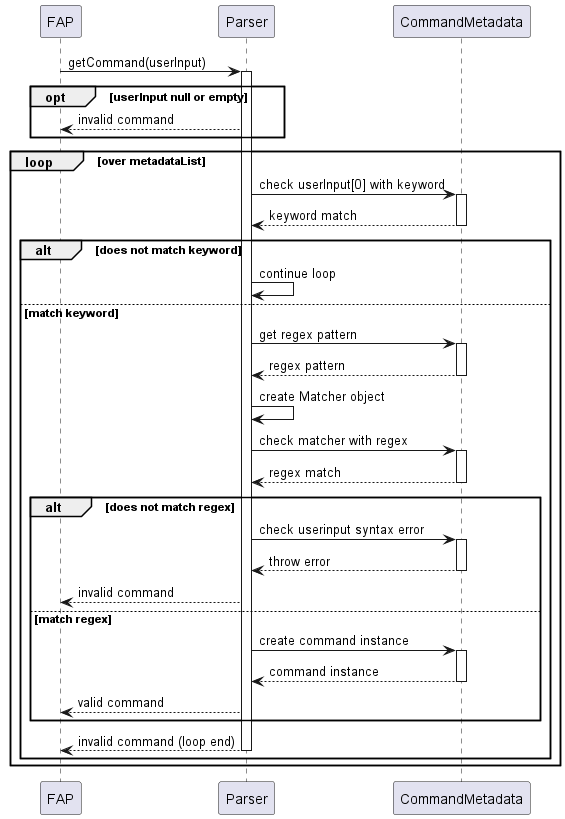
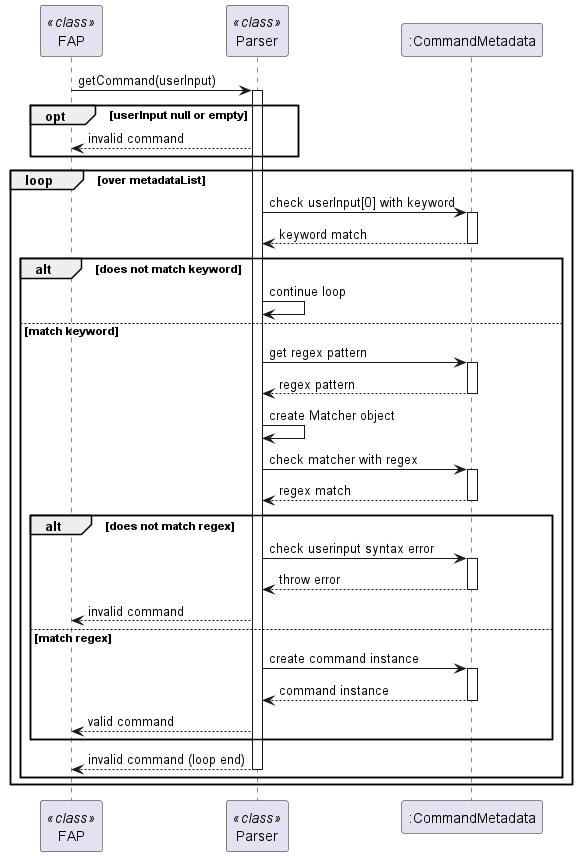
Update parser DG and diagrams

diff --git a/docs/DeveloperGuide.md b/docs/DeveloperGuide.md
@@ -137,13 +137,25 @@ Additionally, the `User` class helps to verify the status of the modules in the 
 modules have been taken or not.
 
 ### Parser package
-**Code**: 
-- [`Parser.java`](https://github.com/AY2324S2-CS2113-W14-3/tp/blob/master/src/main/java/seedu/duke/parser/Parser.java) 
+**Code**:
+- [`Parser.java`](https://github.com/AY2324S2-CS2113-W14-3/tp/blob/master/src/main/java/seedu/duke/parser/Parser.java)
 - [`CommandMetadata.java`](https://github.com/AY2324S2-CS2113-W14-3/tp/blob/master/src/main/java/seedu/duke/parser/CommandMetadata.java)
 
 The `Parser` class, together with the `CommandMetadata` class parses user input to
 **return appropriate command objects** for the corresponding `Command` classes. If input validation fails or no
 matching command is found, it returns an `Invalid` command instance.
+
+**Overview:**
+
+Below is a class diagram that shows the associations between `Parser` and `CommandMetadata`
+
+![ParserClassDiagram.png](diagrams/ParserClassDiagram.png)
+
+The`CommandMetadata` class is an abstract class that manages regular expressions (regex) and validation
+for command arguments, allowing subclasses to generate specific **`Command` instances** based on **command keywords
+and parsed arguments.** For every `Command` class, there would be a corresponding `CommandMetadata` class (with the
+exception of `Invalid` command) that overrides the method `createCommandInstance` to generate the `Command` instance of
+the specific `Command`.
 
 The `Parser` class maintains a list of these `CommandMetadata` subclasses instances and iterates through them to
 identify a given user command.
@@ -152,23 +164,23 @@ Further implementation details are available at "Parsing User Inputs" section un
 
 **How it works (Sequence):**
 
-Below is a sequence diagram that shows how the `FAP` main method calls `Parser` to parse a `userInput` 
+Below is a sequence diagram that shows how the `FAP` main method calls `Parser` to parse a `userInput`
 for a `Command` to return:
 
 ![ParserSequenceDiagram.png](diagrams/ParserSequenceDiagram.png)
 
 The method to parse and validate user inputs is handled in the `Parser` method `getCommand(String userInput)`:
-1. `userInput` is first checked to see if it is null or empty. If either condition is met, `Parser` returns an 'Invalid' 
-command instance.
-2. The first `word` of the `userInput` string is then checked to see if it matches with a valid command 
-`keyword` (Eg. `add`, `remove`, `view` etc)
+1. `userInput` is first checked to see if it is null or empty. If either condition is met, `Parser` returns an 'Invalid'
+   command instance.
+2. The first `word` of the `userInput` string is then checked to see if it matches with a valid command
+   `keyword` (Eg. `add`, `remove`, `view` etc)
 3. If there is no match, return an `Invalid` command instance (on loop end)
-4. If there is a match, the corresponding `CommandMetadata` class for the `keyword` is called upon, 
-and there will be a further attempt to match the `userInput` string with the command `regex` expression
-5. If it does not match, the `CommandMetadata` class will validate the error in user string syntax, print out 
-an error message, and return an `Invalid` command instance
+4. If there is a match, the corresponding `CommandMetadata` class for the `keyword` is called upon,
+   and there will be a further attempt to match the `userInput` string with the command `regex` expression
+5. If it does not match, the `CommandMetadata` class will validate the error in user string syntax, print out
+   an error message, and return an `Invalid` command instance
 6. If it matches, the command `arguments` will be extracted out and the respective command class instance will be
-created based on the overwritten method `createCommandInstance` in the respective `CommandMetadata` class
+   created based on the overwritten method `createCommandInstance` in the respective `CommandMetadata` class
 
 ### Storage
 
